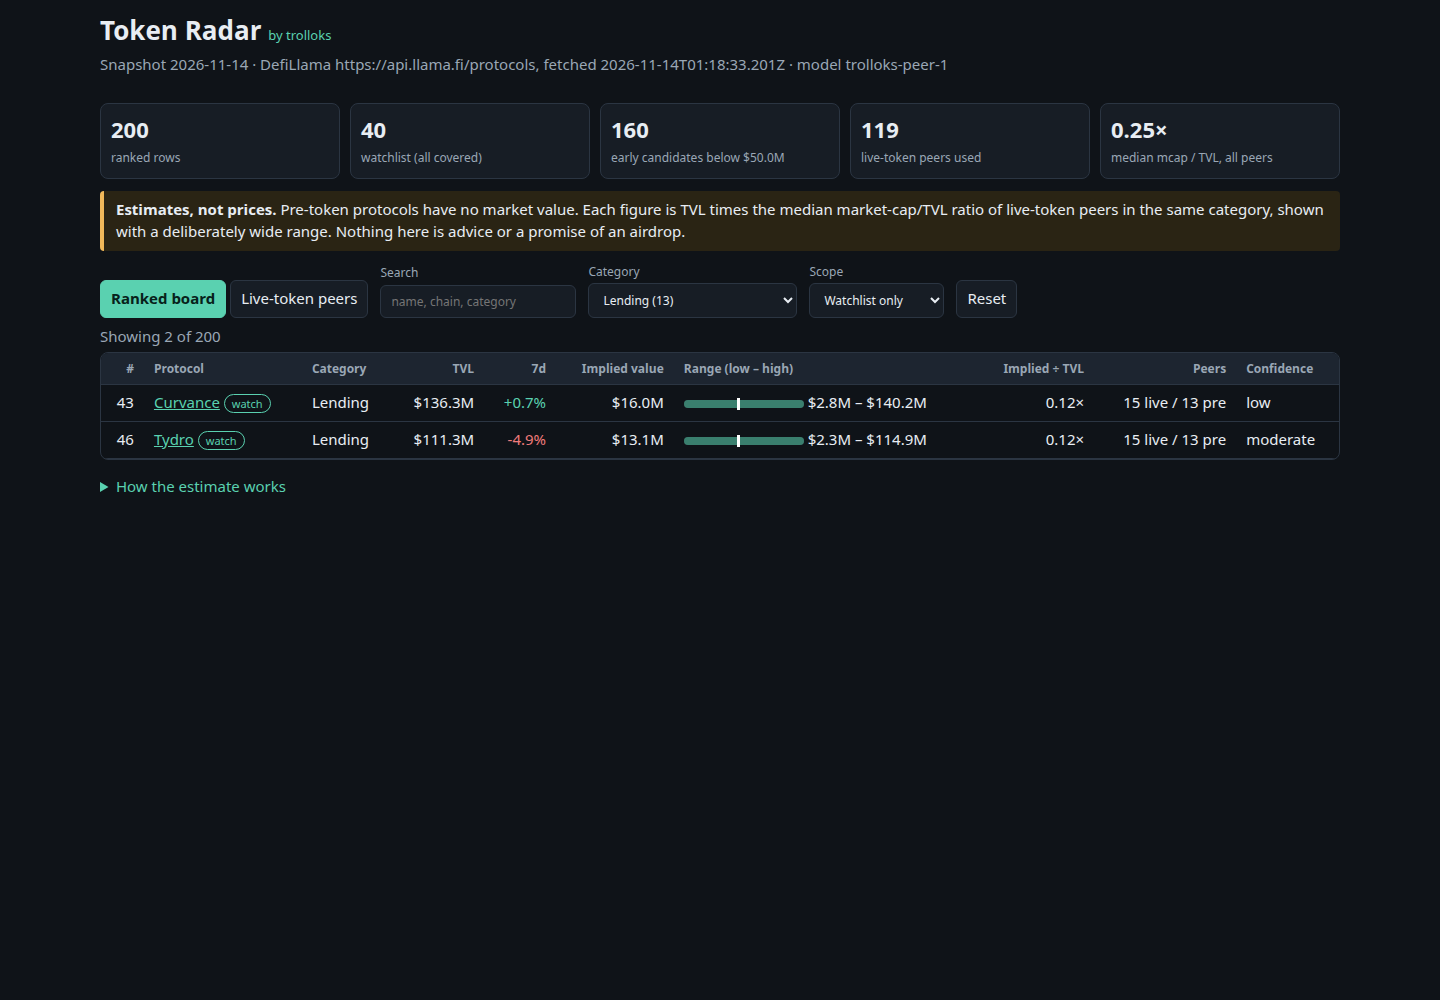
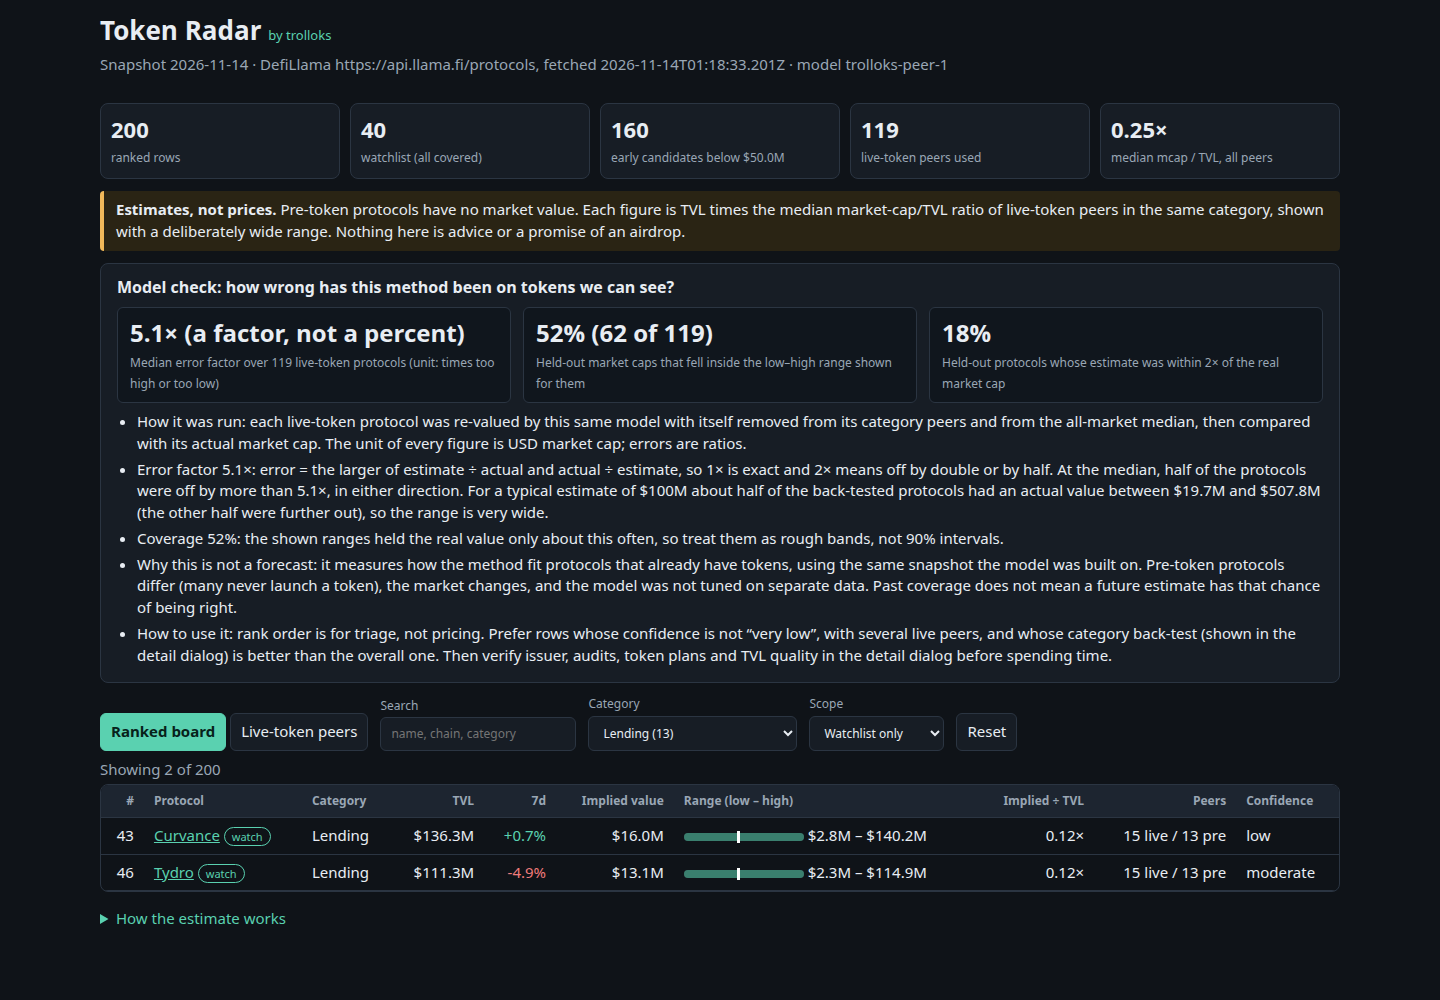
Validate peer estimates and improve dashboard navigation

diff --git a/dashboard/app.js b/dashboard/app.js
@@ -20,19 +20,43 @@
   }
   function pct(n) { return n == null ? '–' : (n > 0 ? '+' : '') + n.toFixed(1) + '%'; }
   var st = { view: 'board', q: '', cat: '', scope: 'all', row: '' };
-  var bySlug = {};
+  var bySlug = Object.create(null); // null prototype: hash values like "constructor" or "__proto__" are never found
 
   if (!D || !D.rows) { $('main').textContent = 'Data failed to load (data.js).'; return; }
   D.rows.forEach(function (r) { bySlug[r.slug] = r; });
 
   $('meta').textContent = 'Snapshot ' + D.as_of + ' · ' + D.source + ' · model ' + D.model_version;
+  var L = D.model.loo;
   var stats = [
     [D.board_size, 'ranked rows'], [D.watchlist_size, 'watchlist (all covered)'], [D.early_size, 'early candidates below ' + usd(D.floor_usd)],
     [D.model.live_peers, 'live-token peers used'], [D.model.global_median_ratio.toFixed(2) + '×', 'median mcap / TVL, all peers']
   ];
   stats.forEach(function (s) { var d = el('div', null, 'stat'); d.appendChild(el('b', String(s[0]))); d.appendChild(el('span', s[1])); $('stats').appendChild(d); });
 
-  var cats = {};
+  // Model check: the leave-one-out diagnostic, written for someone choosing where to look first.
+  (function () {
+    var box = $('check');
+    box.appendChild(el('h2', 'Model check: how wrong has this method been on tokens we can see?', null, { id: 'chkh' }));
+    if (!L.n) { box.appendChild(el('p', 'Not available: this snapshot has fewer than two live-token protocols with a market cap, so the method cannot be tested against known values.')); return; }
+    var big = el('div', null, 'big');
+    function card(v, t) { var d = el('div'); d.appendChild(el('b', v)); d.appendChild(el('span', t)); big.appendChild(d); }
+    var f = L.median_factor;
+    card(f.toFixed(1) + '× (a factor, not a percent)', 'Median error factor over ' + L.n + ' live-token protocols (unit: times too high or too low)');
+    card((L.coverage * 100).toFixed(0) + '% (' + L.covered + ' of ' + L.n + ')', 'Held-out market caps that fell inside the low–high range shown for them');
+    card((L.within_2x * 100).toFixed(0) + '%', 'Held-out protocols whose estimate was within 2× of the real market cap');
+    box.appendChild(big);
+    var ul = el('ul');
+    [
+      'How it was run: each live-token protocol was re-valued by this same model with itself removed from its category peers and from the all-market median, then compared with its actual market cap. The unit of every figure is USD market cap; errors are ratios.',
+      'Error factor ' + f.toFixed(1) + '×: error = the larger of estimate ÷ actual and actual ÷ estimate, so 1× is exact and 2× means off by double or by half. At the median, half of the protocols were off by more than ' + f.toFixed(1) + '×, in either direction. For a typical estimate of $100M about half of the back-tested protocols had an actual value between ' + usd(100e6 / f) + ' and ' + usd(100e6 * f) + ' (the other half were further out), so the range is very wide.',
+      'Coverage ' + (L.coverage * 100).toFixed(0) + '%: the shown ranges held the real value only about this often, so treat them as rough bands, not 90% intervals.',
+      'Why this is not a forecast: it measures how the method fit protocols that already have tokens, using the same snapshot the model was built on. Pre-token protocols differ (many never launch a token), the market changes, and the model was not tuned on separate data. Past coverage does not mean a future estimate has that chance of being right.',
+      'How to use it: rank order is for triage, not pricing. Prefer rows whose confidence is not “very low”, with several live peers, and whose category back-test (shown in the detail dialog) is better than the overall one. Then verify issuer, audits, token plans and TVL quality in the detail dialog before spending time.'
+    ].forEach(function (t) { ul.appendChild(el('li', t)); });
+    box.appendChild(ul);
+  })();
+
+  var cats = Object.create(null);
   D.rows.forEach(function (r) { var c = r.category || 'Uncategorised'; cats[c] = (cats[c] || 0) + 1; });
   var cs = $('cat');
   cs.appendChild(el('option', 'All categories (' + D.rows.length + ')', null, { value: '' }));
@@ -44,6 +68,7 @@
     'Estimate = TVL × ratio × growth × maturity. Growth = 1 + 0.3 × clamp(7d change, −60%, +120%). Maturity = 0.6 + 0.4 × min(age, 1095 days)/1095; unknown age counts as 365 days.',
     'Range: the peers\' 25th–75th percentile ratio, then widened by 1.6× each way, and more when peers are under ' + D.model.min_peers + ', or age is unknown or under 180 days. Treat the range, not the point, as the answer.',
     'Excluded from early candidates: anything with a recorded token (live), exchanges, versioned pools (e.g. "V3", "2.0") and wrapper/receipt products such as exchange-issued staked assets. The whole watchlist is always ranked.',
+    'Back-test: see the “Model check” panel above the table.',
     'Live-token rows are shown only as the market\'s own values and are never ranked with pre-token protocols.'
   ].forEach(function (t) { mb.appendChild(el('p', t)); });
 
@@ -101,7 +126,7 @@
       rows.forEach(function (r) {
         var tr = el('tr');
         tr.appendChild(el('td', String(r.rank), 'n'));
-        var td = el('td'); var b = el('button', r.name, 'link', { type: 'button', 'aria-haspopup': 'dialog' });
+        var td = el('td'); var b = el('button', r.name, 'link', { type: 'button', 'aria-haspopup': 'dialog', 'data-slug': r.slug });
         b.addEventListener('click', function () { st.row = r.slug; writeHash(); openRow(); });
         td.appendChild(b); if (r.watch) { td.appendChild(document.createTextNode(' ')); td.appendChild(el('span', 'watch', 'tag w')); }
         tr.appendChild(td);
@@ -138,7 +163,14 @@
     var m = el('u'); m.style.left = Math.max(0, Math.min(97, x * 100)).toFixed(1) + '%'; w.appendChild(m);
     return w;
   }
-  var lastFocus = null;
+  var lastFocus = null, lastSlug = '';
+  // Re-find the opener after the table was re-rendered; fall back to the search box so focus is never lost.
+  function restoreFocus() {
+    var t = null;
+    if (lastSlug) Array.prototype.forEach.call($('tbl').querySelectorAll('button.link'), function (x) { if (x.getAttribute('data-slug') === lastSlug) t = x; });
+    if (!t && lastFocus && lastFocus.isConnected) t = lastFocus;
+    (t || $('q')).focus();
+  }
   function kv(parent, k, v) { var d = el('div'); d.appendChild(el('b', v)); d.appendChild(el('span', k)); parent.appendChild(d); }
   function list(parent, title, items, ordered) {
     parent.appendChild(el('h3', title)); var l = el(ordered ? 'ol' : 'ul');
@@ -157,14 +189,16 @@
     kv(g, 'Category median (live)', r.cat_ratio == null ? 'no peers' : r.cat_ratio.toFixed(2) + '×'); kv(g, 'All-market median', D.model.global_median_ratio.toFixed(2) + '×');
     kv(g, 'Peer group', r.peers + ' live-token, ' + r.pre_peers + ' pre-token on board'); kv(g, 'Confidence', r.conf);
     b.appendChild(g);
+    var lc = r.loo_cat;
+    if (L.n) b.appendChild(el('p', 'Back-test for this category (leave-one-out, live-token ' + (r.category || 'uncategorised') + ' protocols): ' + (lc ? 'median error ' + lc.median_factor.toFixed(1) + '×, ' + (lc.coverage * 100).toFixed(0) + '% of ranges held the real market cap, n = ' + lc.n + '. ' + (lc.median_factor > L.median_factor ? 'Worse than the overall ' + L.median_factor.toFixed(1) + '×: be more sceptical of this estimate.' : 'Not worse than the overall ' + L.median_factor.toFixed(1) + '×.') : 'fewer than ' + D.model.min_peers + ' held-out peers, no category-level result; only the overall ' + L.median_factor.toFixed(1) + '× applies.') + ' A typical-error band is ' + usd(r.implied / L.median_factor) + ' – ' + usd(r.implied * L.median_factor) + ' (estimate ÷ and × the overall median error). This describes past fit on live tokens, not the chance this protocol launches a token or reaches that value.', 'muted'));
     b.appendChild(el('p', 'Arithmetic: ' + usd(r.tvl) + ' × ' + r.ratio.toFixed(3) + ' × growth ' + r.gm.toFixed(3) + ' × maturity ' + r.mm.toFixed(3) + ' = ' + usd(r.implied) + '. The range is intentionally wide; the true figure could sit outside it.', 'muted'));
     list(b, 'Due diligence for this protocol', r.dd);
     list(b, 'Low-cost farm plan', r.steps, true);
-    lastFocus = document.activeElement;
+    if (!dlg.open) { lastFocus = document.activeElement; lastSlug = r.slug; }
     if (!dlg.open) { if (dlg.showModal) dlg.showModal(); else dlg.setAttribute('open', ''); }
     c.focus();
   }
-  $('dlg').addEventListener('close', function () { st.row = ''; writeHash(); if (lastFocus && lastFocus.focus) lastFocus.focus(); });
+  $('dlg').addEventListener('close', function () { st.row = ''; writeHash(); restoreFocus(); });
   $('dlg').addEventListener('click', function (e) { if (e.target === this) this.close(); });
   $('q').addEventListener('input', function () { st.q = this.value.trim().slice(0, 80); writeHash(); render(); });
   $('cat').addEventListener('change', function () { st.cat = this.value; writeHash(); render(); });

diff --git a/main.ts b/main.ts
@@ -64,11 +64,59 @@ const GROWTH_WEIGHT = 0.3;
 const DAY = 86_400_000;
 const round = (n: number, d = 4): number => Math.round(n * 10 ** d) / 10 ** d;
 
+/** One protocol's estimate from a peer ratio set: the single code path for the board and the leave-one-out check. */
+function estimate(p: P, catR: number[], allR: number[], asOf: string) {
+  const gMed = allR.length ? quant(allR, 0.5) : 0.25; // no live peers at all: fixed prior, flagged by peers = 0
+  const r = catR, n = r.length;
+  const catMed = n ? quant(r, 0.5) : gMed;
+  const w = n / (n + SHRINK);
+  const med = Math.min(3, Math.max(0.03, catMed * w + gMed * (1 - w)));
+  const spreadLo = n >= 3 ? quant(r, 0.25) / catMed : 0.35;
+  const spreadHi = n >= 3 ? quant(r, 0.75) / catMed : 2.5;
+  const age = p.listed_at && Number.isFinite(Date.parse(p.listed_at)) ? Math.max(0, Math.floor((Date.parse(`${asOf}T00:00:00Z`) - Date.parse(`${p.listed_at}T00:00:00Z`)) / DAY)) : null;
+  const growth = Math.min(120, Math.max(-60, p.change_7d ?? 0));
+  const gm = 1 + (growth / 100) * GROWTH_WEIGHT;
+  const mm = 0.6 + (Math.min(age ?? 365, 1095) / 1095) * 0.4;
+  const implied = Math.max(1, Math.round(p.tvl_usd * med * gm * mm));
+  // Deliberately wide band: peer interquartile spread, then widened for thin peer sets and unknown age.
+  const widen = 1 + (n < MIN_PEERS ? 0.5 : 0) + (age === null ? 0.25 : age < 180 ? 0.25 : 0);
+  const low = Math.max(1, Math.round((implied * Math.min(1, spreadLo)) / (1.6 * widen)));
+  const high = Math.round(implied * Math.max(1, spreadHi) * 1.6 * widen);
+  const conf = n >= 15 && age !== null && age >= 365 ? 'moderate' : n >= MIN_PEERS ? 'low' : 'very low';
+  return { n, catMed, med, gm, mm, growth, age, implied, low, high, conf };
+}
+
+/** Leave-one-out: re-estimate every live peer with itself removed from both its category set and the global set. */
+function leaveOneOut(live: P[], asOf: string) {
+  const errs: number[] = [];
+  let covered = 0;
+  const cats = new Map<string, { e: number[]; c: number }>();
+  const cat = (p: P) => p.category ?? '';
+  for (const h of live) {
+    const rest = live.filter((p) => p !== h);
+    if (rest.length === 0) continue;
+    const e = estimate(h, rest.filter((p) => cat(p) === cat(h)).map((p) => p.mcap_usd! / p.tvl_usd), rest.map((p) => p.mcap_usd! / p.tvl_usd), asOf);
+    if (rest.length === 0 || !(e.implied > 0)) continue;
+    errs.push(Math.max(e.implied / h.mcap_usd!, h.mcap_usd! / e.implied));
+    const hit = h.mcap_usd! >= e.low && h.mcap_usd! <= e.high;
+    if (hit) covered++;
+    const g = cats.get(cat(h)) ?? { e: [], c: 0 };
+    g.e.push(errs[errs.length - 1]!);
+    if (hit) g.c++;
+    cats.set(cat(h), g);
+  }
+  const n = errs.length;
+  // Per-category back-test, only where at least MIN_PEERS held-out protocols exist (fewer is noise).
+  const by_cat: Record<string, { n: number; median_factor: number; coverage: number }> = {};
+  for (const [k, g] of cats) if (g.e.length >= MIN_PEERS) by_cat[clean(k || 'Uncategorised', 50)] = { n: g.e.length, median_factor: round(quant(g.e, 0.5), 3), coverage: round(g.c / g.e.length, 4) };
+  return { by_cat, n, median_factor: n ? round(quant(errs, 0.5), 3) : null, coverage: n ? round(covered / n, 4) : null, covered, within_2x: n ? round(errs.filter((x) => x <= 2).length / n, 4) : null };
+}
+
 function build(s: ReturnType<typeof load>) {
   const live = s.ps.filter((p) => isLive(p) && (p.mcap_usd ?? 0) > 0 && p.tvl_usd > 0);
   const ratios = (ps: P[]) => ps.map((p) => p.mcap_usd! / p.tvl_usd);
   const all = ratios(live);
-  const gMed = quant(all, 0.5);
+  const gMed = all.length ? quant(all, 0.5) : 0.25;
   const byCat = new Map<string, P[]>();
   for (const p of live) byCat.set(p.category ?? '', [...(byCat.get(p.category ?? '') ?? []), p]);
 
@@ -82,28 +130,11 @@ function build(s: ReturnType<typeof load>) {
   for (const p of chosen.values()) preByCat.set(p.category ?? '', (preByCat.get(p.category ?? '') ?? 0) + 1);
 
   const scored = [...chosen.values()].map((p) => {
-    const peers = byCat.get(p.category ?? '') ?? [];
-    const r = ratios(peers);
-    const n = r.length;
-    const catMed = n ? quant(r, 0.5) : gMed;
-    const w = n / (n + SHRINK);
-    const med = Math.min(3, Math.max(0.03, catMed * w + gMed * (1 - w)));
-    const spreadLo = n >= 3 ? quant(r, 0.25) / catMed : 0.35;
-    const spreadHi = n >= 3 ? quant(r, 0.75) / catMed : 2.5;
-    const age = p.listed_at && Number.isFinite(Date.parse(p.listed_at)) ? Math.max(0, Math.floor((Date.parse(`${s.as_of}T00:00:00Z`) - Date.parse(`${p.listed_at}T00:00:00Z`)) / DAY)) : null;
-    const growth = Math.min(120, Math.max(-60, p.change_7d ?? 0));
-    const gm = 1 + (growth / 100) * GROWTH_WEIGHT;
-    const mm = 0.6 + (Math.min(age ?? 365, 1095) / 1095) * 0.4;
-    const implied = Math.max(1, Math.round(p.tvl_usd * med * gm * mm));
-    // Deliberately wide band: peer interquartile spread, then widened for thin peer sets and unknown age.
-    const widen = 1 + (n < MIN_PEERS ? 0.5 : 0) + (age === null ? 0.25 : age < 180 ? 0.25 : 0);
-    const low = Math.max(1, Math.round((implied * Math.min(1, spreadLo)) / (1.6 * widen)));
-    const high = Math.round(implied * Math.max(1, spreadHi) * 1.6 * widen);
-    const conf = n >= 15 && age !== null && age >= 365 ? 'moderate' : n >= MIN_PEERS ? 'low' : 'very low';
-    return { p, n, catMed, med, gm, mm, growth, age, implied, low, high, conf, pre: preByCat.get(p.category ?? '') ?? 0 };
+    const e = estimate(p, ratios(byCat.get(p.category ?? '') ?? []), all, s.as_of);
+    return { p, ...e, pre: preByCat.get(p.category ?? '') ?? 0 };
   });
   scored.sort((a, b) => b.implied - a.implied || (a.p.slug < b.p.slug ? -1 : 1));
-  return { scored, live, gMed, gN: all.length };
+  return { scored, live, gMed, gN: all.length, loo: leaveOneOut(live, s.as_of) };
 }
 
 // ---- protocol-specific due diligence -----------------------------------------------------------
@@ -148,7 +179,7 @@ const steps = (p: P, age: number | null): string[] => {
 
 // ---- run ---------------------------------------------------------------------------------------
 const snap = load();
-const { scored, live, gMed, gN } = build(snap);
+const { scored, live, gMed, gN, loo } = build(snap);
 const board = scored.map((s, i) => ({
   rank: i + 1, slug: s.p.slug, name: s.p.name, category: s.p.category, chains: s.p.chains, tvl_usd: s.p.tvl_usd,
   change_7d: s.p.change_7d, mcap_usd: s.p.mcap_usd, listed_at: s.p.listed_at, gecko_id: s.p.gecko_id, symbol: s.p.symbol,
@@ -166,14 +197,14 @@ for (const r of board) for (const t of r.farm_steps) if (t.length < 20 || t.leng
 const wl = new Set(snap.watch);
 const radar = {
   as_of: snap.as_of, source: snap.source, floor_usd: snap.floor, model_version: 'trolloks-peer-1',
-  model: { global_median_ratio: round(gMed), live_peers: gN, min_peers: MIN_PEERS, shrink: SHRINK, growth_weight: GROWTH_WEIGHT },
+  model: { global_median_ratio: round(gMed), live_peers: gN, min_peers: MIN_PEERS, shrink: SHRINK, loo, growth_weight: GROWTH_WEIGHT },
   watchlist_size: snap.watch.length, board_size: board.length, early_size: board.filter((r) => !wl.has(r.slug)).length,
   live_size: live.length,
   rows: scored.map((s, i) => ({
     rank: i + 1, slug: clean(s.p.slug, 100), name: clean(s.p.name), category: s.p.category === null ? null : clean(s.p.category, 50),
     chains: s.p.chains.slice(0, 12).map((c) => clean(c, 30)), tvl: s.p.tvl_usd, ch7: s.p.change_7d, listed: s.p.listed_at === null ? null : clean(s.p.listed_at, 10),
     age: s.age, implied: s.implied, low: s.low, high: s.high, ratio: round(s.med), cat_ratio: Number.isNaN(s.catMed) ? null : round(s.catMed),
-    peers: s.n, pre_peers: s.pre, conf: s.conf, gm: round(s.gm), mm: round(s.mm), watch: wl.has(s.p.slug), dd: dd(s.p, s.age, s.n).map((t) => clean(t, 240)),
+    peers: s.n, pre_peers: s.pre, conf: s.conf, gm: round(s.gm), mm: round(s.mm), watch: wl.has(s.p.slug), loo_cat: loo.by_cat[clean(s.p.category || 'Uncategorised', 50)] ?? null, dd: dd(s.p, s.age, s.n).map((t) => clean(t, 240)),
     steps: steps(s.p, s.age).map((t) => clean(t, 600)),
   })),
   live: live.sort((a, b) => b.mcap_usd! - a.mcap_usd!).slice(0, 40).map((p) => ({
@@ -195,4 +226,4 @@ copyFiles(join(here, 'dashboard'), join(out, 'dashboard'));
 const shots = copyFiles(join(here, 'screenshots'), join(out, 'screenshots'));
 if (shots.length < 3) { process.stderr.write('need 3 screenshots\n'); process.exit(1); }
 writeFileSync(join(out, 'dossier.json'), buildDossier(out, { text_max_bytes: 65_536, screenshots: { max: 4, max_bytes: 524_288 }, dashboard: { max_files: 400, max_bytes: 4_194_304 } }));
-process.stdout.write(`trolloks: ${board.length} rows (${radar.early_size} early), ${live.length} live peers, global mcap/TVL median ${round(gMed)}\n`);
+process.stdout.write(`trolloks: ${board.length} rows (${radar.early_size} early), ${live.length} live peers, global mcap/TVL median ${round(gMed)}; LOO n=${loo.n} median error ${loo.median_factor ?? "n/a"}x coverage ${loo.coverage ?? "n/a"}\n`);

diff --git a/dashboard/app.css b/dashboard/app.css
@@ -37,3 +37,9 @@ dialog ul,dialog ol{margin:4px 0;padding-left:20px}dialog li{margin:3px 0}
 .kv div{background:#10161d;border:1px solid var(--line);border-radius:6px;padding:7px}.kv b{display:block}.kv span{font-size:12px;color:var(--mute)}
 .close{float:right}
 @media (prefers-reduced-motion:no-preference){tbody tr{transition:background .15s}}
+.check{background:var(--panel);border:1px solid var(--line);border-radius:8px;padding:12px 16px;margin:12px 0}
+.check h2{margin:0 0 6px;font-size:16px}
+.check .big{display:flex;flex-wrap:wrap;gap:12px;margin:8px 0}
+.check .big div{background:#10161d;border:1px solid var(--line);border-radius:6px;padding:8px 12px;min-width:200px;flex:1}
+.check .big b{font-size:24px;display:block}.check .big span{font-size:12px;color:var(--mute)}
+.check p,.check li{margin:4px 0}.check ul{padding-left:20px;margin:4px 0}

diff --git a/dashboard/index.html b/dashboard/index.html
@@ -16,6 +16,7 @@
 <main id="main" tabindex="-1">
   <section id="stats" class="stats" aria-label="Summary"></section>
   <p class="warn"><strong>Estimates, not prices.</strong> Pre-token protocols have no market value. Each figure is TVL times the median market-cap/TVL ratio of live-token peers in the same category, shown with a deliberately wide range. Nothing here is advice or a promise of an airdrop.</p>
+  <section id="check" class="check" aria-labelledby="chkh"></section>
   <div class="tools" role="search">
     <div class="tabs" role="group" aria-label="View">
       <button type="button" data-view="board" aria-pressed="true">Ranked board</button>
